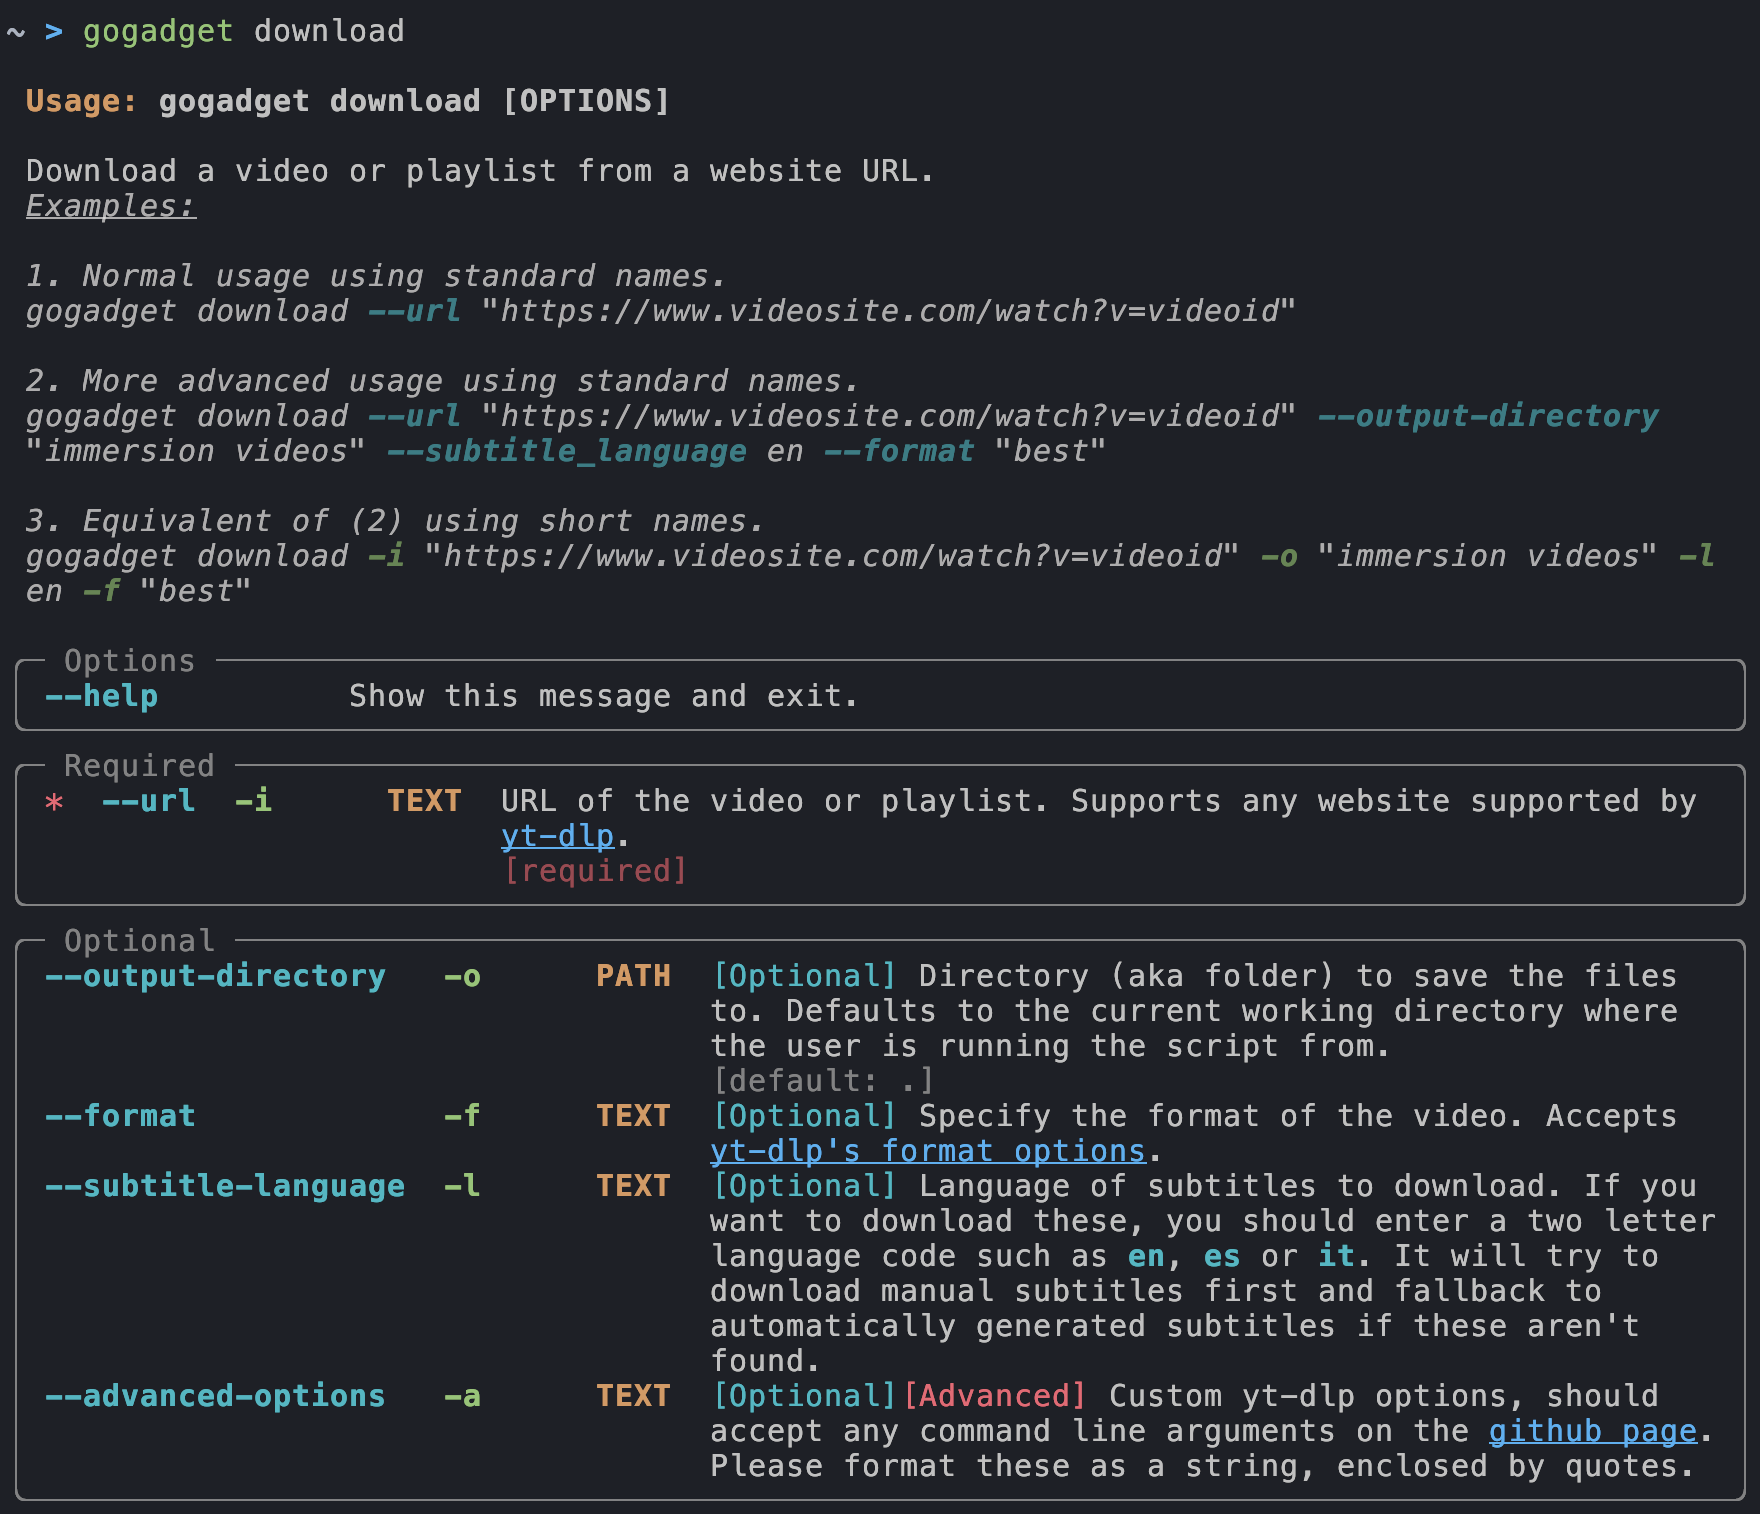
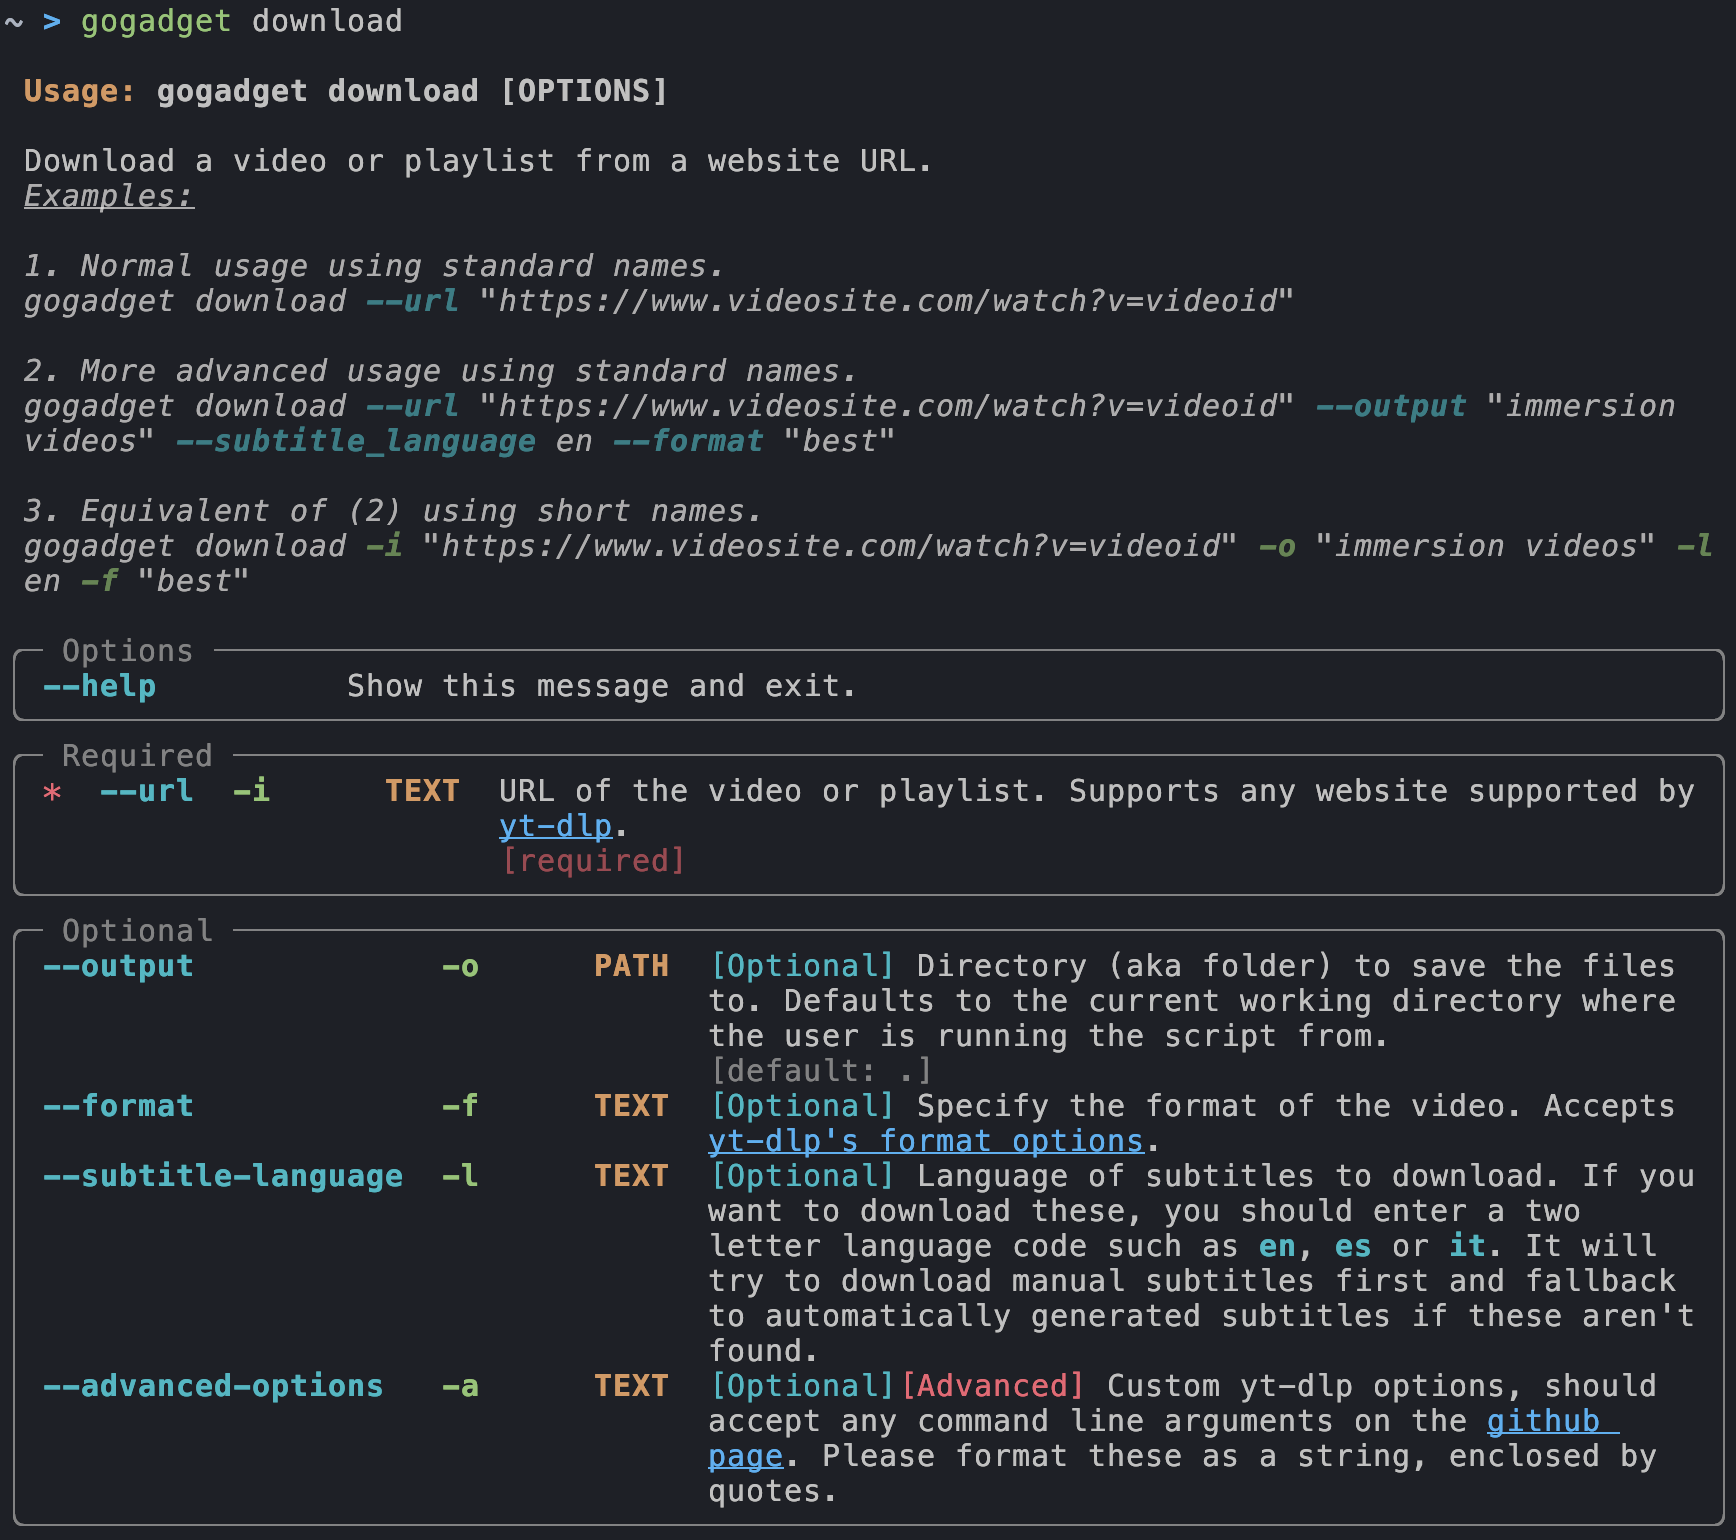
Documentation updates to resolve 0.2.1 issues

diff --git a/gogadget/frequency_analyser.py b/gogadget/frequency_analyser.py
@@ -7,6 +7,7 @@ from lemon_tizer import LemonTizer
 from rich.progress import track
 
 from .cli_utils import CliUtils
+from .command_runner import get_platform
 from .config import SUPPORTED_SUB_EXTS, ConfigFile
 from .lemmatiser import language_supported
 from .utils import (
@@ -113,6 +114,11 @@ def generate_frequency_analysis(
     df_freq_table = pd.DataFrame(
         columns=["word", "example", "example_source", "example_start", "example_end", "frequency"]
     )
+
+    if get_platform() == "Windows":
+        CliUtils.print_warning("""In certain configurations, there is a bug in one of the external packages that this function relies on.
+If this appears to quit early, please run the command again and it should work.
+If you are very, very unlucky, you may need to run it a few times!""")
 
     for index, row in track(
         df_input.iterrows(),

diff --git a/README.md b/README.md
@@ -176,7 +176,7 @@ curl -LsSf https://astral.sh/uv/install.sh | sh
 - Fedora based distributions: `sudo dnf install ffmpeg gcc @development-tools python3-devel`
 - Arch based distributions: `sudo pacman -S ffmpeg base-devel`
 
-1. Configure your paths if they aren't already set up:
+3. Configure your paths if they aren't already set up:
 
 ```sh
 source $HOME/.local/bin/env
@@ -200,7 +200,7 @@ gogadget
 gogadget install
 ```
 
-7. _[Optional]_ If you have CUDA installed and configured on your system, you can run:
+7. _[Optional]_ If you wish to use your GPU instead of your CPU and you have CUDA installed and configured on your system, you can run:
 
 ```sh
 uv tool install gogadget --python 3.10 --update
@@ -208,7 +208,7 @@ uv tool install gogadget --python 3.10 --with 'torch==2.5.1+cu124' --index 'http
 uv tool install gogadget --python 3.10 --with 'torchaudio==2.5.1+cu124' --index 'https://download.pytorch.org/whl/cu124'
 ```
 
-You will probably also need to do some additional configuration - [Enabling GPU powered transcription](#enabling-gpu-powered-transcription)
+For more information on (optionally) using your GPU, please see [Enabling GPU powered transcription](#enabling-gpu-powered-transcription).
 
 ## Enabling GPU powered transcription
 
@@ -217,14 +217,13 @@ To enable GPU powered transcription of subtitles, you will need:
 - A CUDA enabled NVIDIA gpu with a decent amount of VRAM (>=8 GB)
 - Windows or Linux
 - NVIDIA's CUDA toolkit installed: https://developer.nvidia.com/cuda-toolkit
-- NVIDIA's cuDNN toolkit installed: https://developer.nvidia.com/cudnn
 - It's also worth ensuring that you have up to date GPU drivers installed
 
-These requirements are the same for all Whisper based transcription tools. Therefore, there will be plenty of guides to help you if you get stuck!
+These requirements are the same for most Whisper based transcription tools. Therefore, there will be plenty of guides to help you if you get stuck!
 
 If you are using Windows, you will need to make sure that you tick "CUDA" in the installer.
 
-If you are running Linux or are manually configuring it on Windows, you will need to follow the final step of the [Linux](#linux) installation instructions.
+If you are running Linux or are **manually** configuring it on Windows, you will need to follow the final step of the [Linux](#linux) installation instructions.
 
 You will need to then specify `--gpu` when running any transcription tasks e.g.:
 
@@ -244,7 +243,7 @@ You should ignore this section if you are using the installation instructions fo
 
 Notes on Python version:
 
-- The tool is currently compatible with Python `3.10`, `3.11` and `3.12`. Some dependencies have issues when you build them on newer python versions so its generally safest to install `3.10`.
+- The tool is currently compatible with Python `3.10`, `3.11` and `3.12`. On some platforms, some dependencies have issues when you build them on newer python versions so its generally safest to install `3.10`.
 - `3.13` is **not** supported as the dependencies `ctranslate2` and `torch` do not currently provide compatible packages.
 - If you manually install gogadget and you get errors about either of these packages, a Python version issue is probably the cause.
 
@@ -322,7 +321,7 @@ gogadget set-defaults --custom
 
 ## Example use case
 
-The following example is my personal use case for producing priming materials prior to immersing in them. My target language is Italian (`it`) and my native language is English(`en`). I have set up a json dictionary, word audio and an exclude list as described in [Getting dictionary, word audio and exclude lists](#getting-dictionary-word-audio-and-exclude-lists).
+The following example is my personal use case for producing priming materials prior to immersing in them. My target language is Italian (`it`) and my native language is English(`en`). I have downloaded a json dictionary, word audio and an exclude list as described in [Getting dictionary, word audio and exclude lists](#getting-dictionary-word-audio-and-exclude-lists).
 
 As a "one off" task, I set up my default settings by running `gogadget set-defaults --custom`. I changed the following settings from the defaults. [the defaults are set for the widest compatibility, not for a specific workflow]
 
@@ -366,7 +365,7 @@ format = ""
 subtitle_language = ""
 
 [transcriber]
-# Change `whisper_use_gpu` to True on my windows PC which has an Nvidia GPU. This massively speeds up transcription but isn't compatible unless you have a GPU that can run CUDA
+# I have changed `whisper_use_gpu` to "True" on my windows PC which has an Nvidia GPU. This massively speeds up transcription but it does require a GPU that can run CUDA
 whisper_model = "deepdml/faster-whisper-large-v3-turbo-ct2"
 alignment_model = ""
 subtitle_format = "vtt"
@@ -991,7 +990,7 @@ Pull requests are welcome. Please see [BUILDING.MD](BUILDING.MD) for more detail
 
 # Acknowledgements
 
-[gogadget](https://https://github.com/jonathanfox5/gogadget) © Jonathan Fox is licensed under [CC BY-NC-SA 4.0](https://creativecommons.org/licenses/by-nc-sa/4.0/?ref=chooser-v1). All materials in this repository are covered by CC BY-NC-SA 4.0, unless specifically noted below:
+[gogadget](https://https://github.com/jonathanfox5/gogadget) is © Jonathan Fox and is licensed under [CC BY-NC-SA 4.0](https://creativecommons.org/licenses/by-nc-sa/4.0/?ref=chooser-v1). All materials in this repository are covered by CC BY-NC-SA 4.0, unless specifically noted below:
 
 - [gogadget/ytdlp_cli_to_api.py](gogadget/ytdlp_cli_to_api.py) has been directly reproduced from [yt-dlp's github page](https://github.com/yt-dlp/yt-dlp/blob/master/devscripts/cli_to_api.py) ([license](https://raw.githubusercontent.com/yt-dlp/yt-dlp/refs/heads/master/LICENSE)) without modification.
 - The Windows installer bundles the binaries for both [FFMPEG](https://ffmpeg.org) ([license](https://ffmpeg.org/legal.html)) and [uv](https://github.com/astral-sh/uv) ([license](https://github.com/astral-sh/uv/blob/main/LICENSE-MIT)).

diff --git a/BUILDING.MD b/BUILDING.MD
@@ -7,22 +7,24 @@
 
 ## Required packages
 
-[Poetry](https://python-poetry.org) is used to build the packages, the installers use [uv](https://docs.astral.sh/uv/) to run the tool in its own virtual environment and the only non-Python dependency is [ffmpeg](https://ffmpeg.org). [Innosetup](https://jrsoftware.org/isinfo.php) is used to build the Windows installer.
+[Poetry](https://python-poetry.org) is used to build the packages and [Innosetup](https://jrsoftware.org/isinfo.php) is used to build the Windows installer.
+
+The installers use [uv](https://docs.astral.sh/uv/) to run the tool in its own virtual environment and the only non-Python runtime dependency is [ffmpeg](https://ffmpeg.org).
 
 ## Settings things up
 
-Assumes building on Windows. If you are building on mac / linux, just skip the innosetup related steps.
+The following assumes building on Windows so that the Windows installer can be created in addition to the multi-platform wheel. If you are building on mac / linux, just skip the innosetup related steps.
 
 1. Set version number in [pyproject.toml](pyproject.toml)
 2. Set version number in [install/gogadget_windows.iss](install/gogadget_windows.iss)
-3. Make sure `poetry` and `innosetup` are installed and in path. (innosetup isn't by default, need to add the root innosetup directory in program files)
-4. Download latest windows builds of ffmpeg and uv and put the binaries directly in [install/bin/](install/bin/)
+3. Make sure `poetry` and `innosetup` are installed and in path. (innosetup isn't by default, you will need to add the root innosetup directory in program files)
+4. Download latest windows builds of `ffmpeg` and `uv` and put the binaries directly in [install/bin/](install/bin/)
 
 ## Build commands
 
 Also available [here](install/windows_build.sh).
 
-(these are in bash, convert them to whatever shell you are using)
+(these are for bash / windows, convert them to whatever shell / platform you are using)
 
 ```sh
 # Clear out any wheels and existing installers that we have
@@ -47,7 +49,7 @@ poetry publish
 - Windows 11 without CUDA
 - Windows 11 without any tools in path or python installed
 - macOS: latest available release
-- Linux: Ubuntu Server 24.04.1 LTS ARM
+- Linux: Ubuntu Server 24.04.1 LTS ARM (Oracle Cloud)
 
 ARM based Windows is not officially supported and the installer only targets 64 bit x86. However, Windows ARM users can follow the custom installation steps if they wish.
 
@@ -76,5 +78,5 @@ gogadget
 
 Pull requests are welcome. Some basic requirements.
 
-- All python code should be linted / formatted using [ruff](https://docs.astral.sh/ruff/). The `pyproject.toml` file in the repository contains project specific settings that should be automatically picked up by both the command line version and VSCode extension versions of ruff. The main requirements are 100 line length, 4 spaces as intent, import linting and double quotes.
-- All code should be type checked by [mypy](https://www.mypy-lang.org). Support for `import-untyped` checking is disabled in `pyproject.toml` to avoid the need to generate stubs for third party libraries.
+- All python code should be linted / formatted using [ruff](https://docs.astral.sh/ruff/). The [pyproject.toml](pyproject.toml) file in the repository contains project specific settings that should be automatically picked up by both the command line version and VSCode extension versions of ruff. The main requirements are 100 line length, 4 spaces as intent, import linting and double quotes.
+- All code should be type checked by [mypy](https://www.mypy-lang.org). Support for `import-untyped` checking is disabled in [pyproject.toml](pyproject.toml) to avoid the need to generate stubs for third party libraries.
